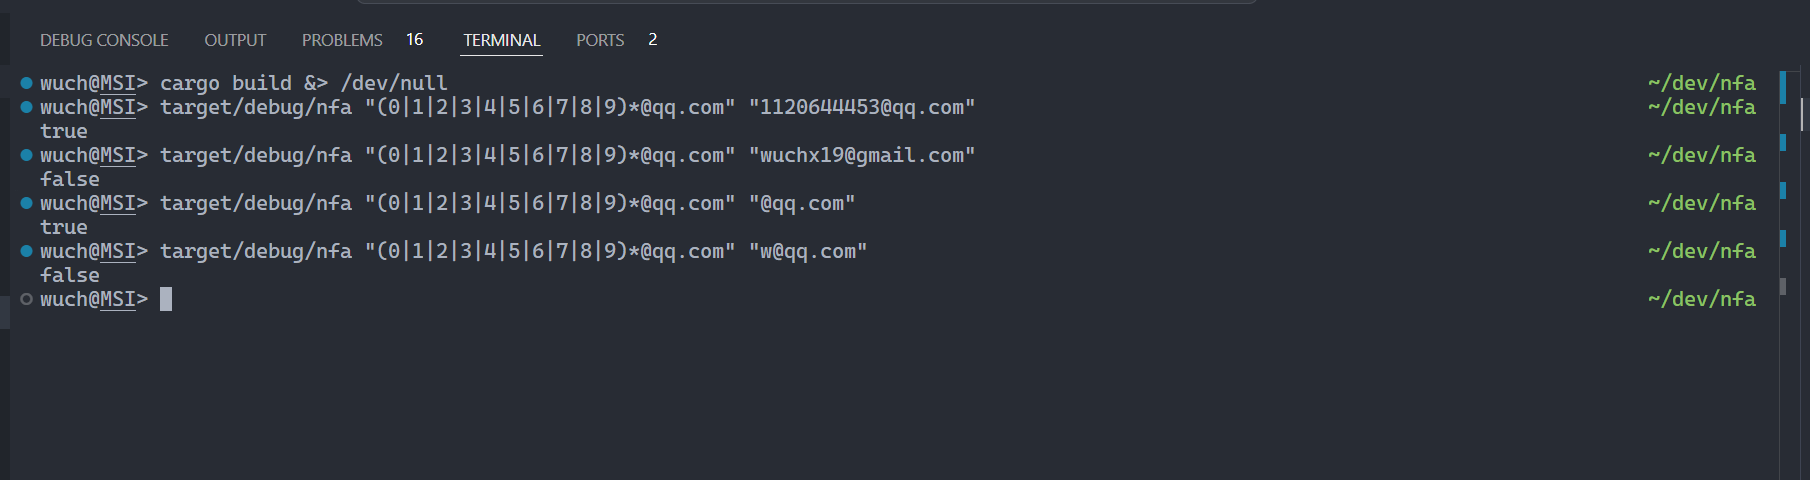
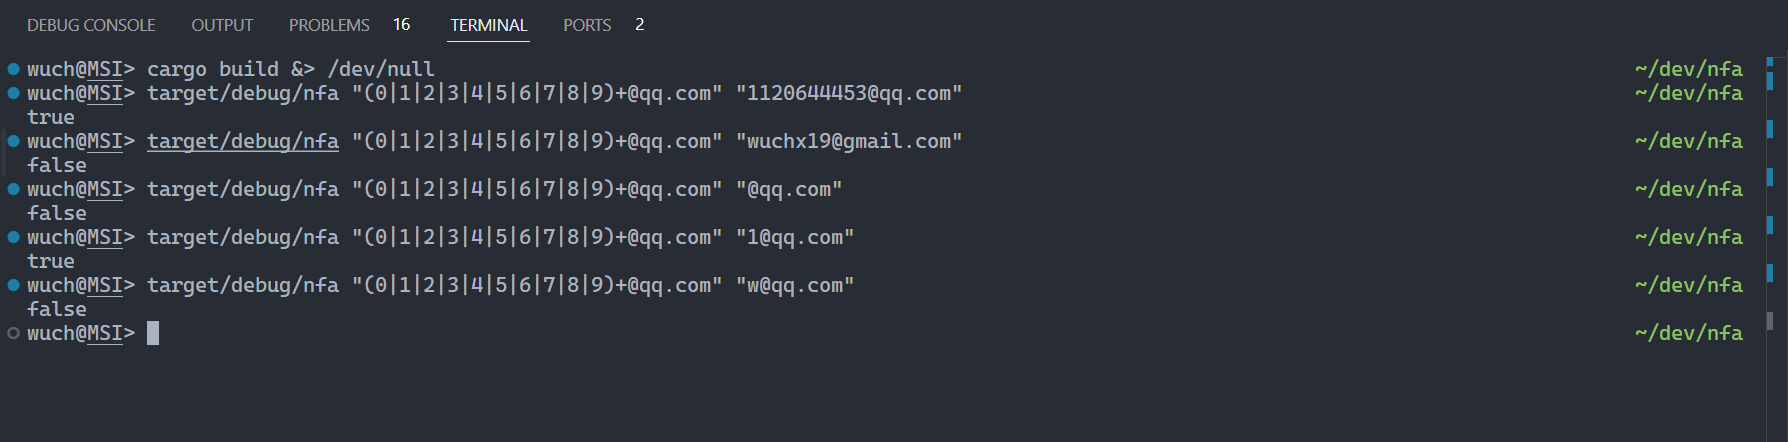
chore: Fix the problem that arises from using an error state when building the transition during the handling of the ‘+’ operator.

Changed region(s): [[0.0, 0.0294, 0.5537, 0.7941], [0.8921, 0.1176, 1.0, 1.0]]

diff --git a/src/nfa.rs b/src/nfa.rs
@@ -185,7 +185,7 @@ impl NFA {
                         let v2 = self.new_id();
 
                         self.transitions.add(v1, State::Epsilon, f1.from);
-                        self.transitions.add(f1.from, State::Epsilon, v1);
+                        self.transitions.add(f1.to, State::Epsilon, v1);
                         self.transitions.add(f1.to, State::Epsilon, v2);
 
                         stack.push(Fragment { from: v1, to: v2 });
